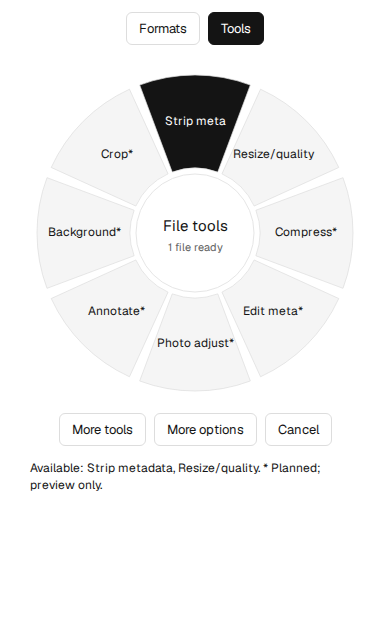
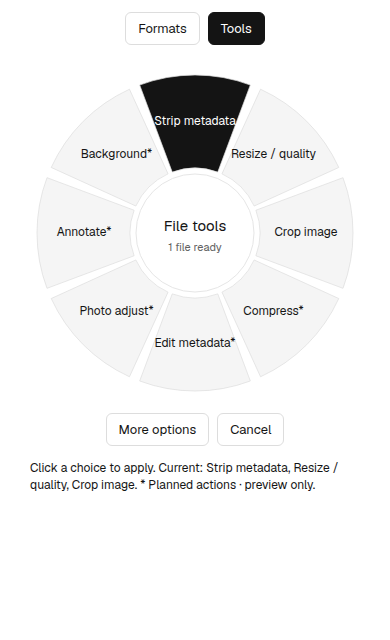
feat: add image crop tool

diff --git a/src/renderer/index.html b/src/renderer/index.html
@@ -26,7 +26,7 @@
     <section class="support" aria-labelledby="support-heading"><h2 id="support-heading">Supported conversions</h2><p>Working routes across all ten categories. Some exports preserve text content rather than layout; each file’s conversion details explain what will change.</p><dl><div><dt>Images</dt><dd>JPG, PNG, WebP, TIFF, AVIF, BMP, SVG and HEIC input · PDF export</dd></div><div><dt>Video</dt><dd>MP4, MOV, MKV, WebM, AVI, WMV, GIF · MP3 extraction</dd></div><div><dt>Audio</dt><dd>MP3, M4A, WAV, FLAC, OGG, Opus, AIFF, WMA</dd></div><div><dt>PDF</dt><dd>Text, Markdown, DOCX, EPUB · Page images · Image-based PPTX</dd></div><div><dt>Documents</dt><dd>DOCX, RTF, Markdown, TXT, HTML · PDF, page images and EPUB</dd></div><div><dt>Slides</dt><dd>PPT/PPTX to PDF and page images with the Office engine</dd></div><div><dt>Spreadsheets</dt><dd>XLSX, ODS, CSV, TSV · XLS input with the Office engine</dd></div><div><dt>EPUB</dt><dd>Reading-order text to TXT, Markdown, HTML, DOCX, PDF</dd></div><div><dt>Subtitles</dt><dd>SRT, VTT · TXT export</dd></div><div><dt>Archives</dt><dd>ZIP, TAR, TAR.GZ, GZIP and RAR input · ZIP, TAR, TAR.GZ output</dd></div></dl><p>Office rendering requires the local Office engine. HEIC export, Pages, RTFD, text clippings, OCR, and advanced editing remain in development.</p></section>
     <footer><span>Peeler · Open source · MIT source</span><span>In-window conversion · Engine licenses included</span></footer>
   </main>
-  <dialog id="format-dialog" aria-labelledby="format-heading"><form method="dialog"><div class="dialog-heading"><h2 id="format-heading">Output format</h2><button aria-label="Close format menu" formnovalidate>Close</button></div><p id="format-file"></p><p id="format-note" class="format-note"></p><fieldset id="image-options" hidden><legend>Image options</legend><div class="image-fields"><label>Max width (px)<input id="image-width" type="number" min="1" max="16384" step="1" placeholder="Original"></label><label>Max height (px)<input id="image-height" type="number" min="1" max="16384" step="1" placeholder="Original"></label><label>Lossy quality<input id="image-quality" type="number" min="1" max="100" step="1" value="85"></label><label>JPG/BMP background<input id="image-background" type="color" value="#ffffff"></label></div><p>Keep proportions and never enlarge. Quality applies to JPG, WebP and AVIF.</p></fieldset><div id="format-wheel" class="format-wheel"></div><p class="muted">Choose a format. Escape closes this menu.</p></form></dialog>
+  <dialog id="format-dialog" aria-labelledby="format-heading"><form method="dialog"><div class="dialog-heading"><h2 id="format-heading">Output format</h2><button aria-label="Close format menu" formnovalidate>Close</button></div><p id="format-file"></p><p id="format-note" class="format-note"></p><fieldset id="image-options" hidden><legend>Image options</legend><div class="image-fields"><label>Max width (px)<input id="image-width" type="number" min="1" max="16384" step="1" placeholder="Original"></label><label>Max height (px)<input id="image-height" type="number" min="1" max="16384" step="1" placeholder="Original"></label><label>Lossy quality<input id="image-quality" type="number" min="1" max="100" step="1" value="85"></label><label>JPG/BMP background<input id="image-background" type="color" value="#ffffff"></label></div><p>Keep proportions and never enlarge. Quality applies to JPG, WebP and AVIF.</p></fieldset><fieldset id="crop-options" hidden disabled><legend>Crop bounds</legend><div class="image-fields"><label>Left (px)<input id="crop-left" type="number" min="0" max="16383" step="1" required></label><label>Top (px)<input id="crop-top" type="number" min="0" max="16383" step="1" required></label><label>Width (px)<input id="crop-width" type="number" min="1" max="16384" step="1" required></label><label>Height (px)<input id="crop-height" type="number" min="1" max="16384" step="1" required></label></div><p>Coordinates use the image after orientation correction. The crop must fit within the image.</p></fieldset><div id="format-wheel" class="format-wheel"></div><p class="muted">Choose a format or tool. Escape closes this menu.</p></form></dialog>
   <script src="renderer.js"></script>
 </body>
 </html>

diff --git a/src/renderer/renderer.js b/src/renderer/renderer.js
@@ -17,7 +17,7 @@ function render() {
     const row = document.createElement('div'); row.className = 'file-row';
     const identity = document.createElement('div'); identity.className = 'file-name'; identity.textContent = file.name; identity.title = file.name;
     const meta = document.createElement('span'); meta.className = 'file-meta'; meta.textContent = `${file.category} · ${bytes(file.bytes)}`; identity.append(meta);
-    const format = document.createElement('button'); format.className = 'file-format'; format.textContent = file.operation === 'strip-metadata' ? 'Clean metadata' : file.operation === 'extract-archive' ? 'Extract archive' : file.operation === 'mute-video' ? 'Mute video' : file.operation === 'normalize-audio' ? 'Normalize volume' : file.target ? `→ ${formatLabel(file, file.target)}` : 'Unavailable'; format.setAttribute('aria-label', `Output format for ${file.name}`); format.disabled = busy || !!file.output || (!file.targets.length && !file.tools.length);
+    const format = document.createElement('button'); format.className = 'file-format'; format.textContent = file.operation === 'strip-metadata' ? 'Clean metadata' : file.operation === 'extract-archive' ? 'Extract archive' : file.operation === 'mute-video' ? 'Mute video' : file.operation === 'normalize-audio' ? 'Normalize volume' : file.operation === 'crop-image' ? 'Crop image' : file.target ? `→ ${formatLabel(file, file.target)}` : 'Unavailable'; format.setAttribute('aria-label', `Output format for ${file.name}`); format.disabled = busy || !!file.output || (!file.targets.length && !file.tools.length);
     format.onclick = () => openFormats(file); format.onkeydown = event => { if (event.key === 'Shift') { event.preventDefault(); openFormats(file); } };
     const state = document.createElement('div'); state.className = `file-state${file.error ? ' error' : ''}`;
     if (file.output) { const reveal = document.createElement('button'); reveal.textContent = 'Show file'; reveal.onclick = () => bridge.reveal(file.output).catch(error => message(error.message)); state.append(reveal); }
@@ -42,6 +42,7 @@ function openFormats(file) {
   $('#format-file').textContent = file.name;
   $('#format-note').textContent = file.note || '';
   $('#image-options').hidden = file.category !== 'Images'; $('#image-options').disabled = file.category !== 'Images';
+  $('#crop-options').hidden = true; $('#crop-options').disabled = true;
   $('#image-width').value = file.imageOptions?.width || ''; $('#image-height').value = file.imageOptions?.height || '';
   $('#image-quality').value = file.imageOptions?.quality || 85; $('#image-background').value = file.imageOptions?.background || '#ffffff';
   $('#format-wheel').replaceChildren();
@@ -80,6 +81,21 @@ function openFormats(file) {
   if (file.tools.includes('normalize-audio')) {
     const button = document.createElement('button'); button.type = 'button'; button.textContent = 'Normalize volume';
     button.onclick = () => { active.operation = 'normalize-audio'; active.target = file.name.split('.').pop().toLowerCase(); $('#format-dialog').close(); render(); };
+    $('#format-wheel').append(button);
+  }
+  if (file.tools.includes('crop-image')) {
+    const button = document.createElement('button'); button.type = 'button'; button.textContent = 'Crop image';
+    button.onclick = () => {
+      $('#image-options').hidden = true; $('#crop-options').hidden = false; $('#crop-options').disabled = false; $('#format-wheel').replaceChildren();
+      const apply = document.createElement('button'); apply.type = 'button'; apply.textContent = 'Save cropped copy';
+      apply.onclick = () => {
+        if (!$('#format-dialog form').reportValidity()) return;
+        active.operation = 'crop-image'; active.target = file.name.split('.').pop().toLowerCase();
+        active.imageOptions = { crop: { left: Number($('#crop-left').value), top: Number($('#crop-top').value), width: Number($('#crop-width').value), height: Number($('#crop-height').value) } };
+        $('#format-dialog').close(); render();
+      };
+      $('#format-wheel').append(apply);
+    };
     $('#format-wheel').append(button);
   }
   $('#format-dialog').showModal();

diff --git a/docs/TOOL_PARITY_PLAN.md b/docs/TOOL_PARITY_PLAN.md
@@ -40,9 +40,9 @@ Peeler has no file-actions wheel or assigned key for one. Tangerine's Mac demo u
 
 **Tangerine tools for a selection:** Compress; Edit Metadata; Crop; Create PDF; Make a Collage. The site describes PDF creation as one page per selected image, and collage layouts as grid/row/column/featured with ordering and spacing controls. Actions vary by source type and selection size.
 
-**Peeler now:** The Formats wheel converts supported image inputs. The Tools wheel exposes metadata removal and image options. Proportional resize, lossy quality, and JPG/BMP background settings are available during conversion or for a same-format edited copy. Metadata removal re-encodes supported images.
+**Peeler now:** The Formats wheel converts supported image inputs. The Tools wheel exposes metadata removal, image options, and coordinate-based Crop for supported raster inputs. Crop uses left/top/width/height pixel bounds after orientation correction and saves a same-format copy; it does not yet provide a live drag preview or aspect presets. Proportional resize, lossy quality, and JPG/BMP background settings are available during conversion or for a same-format edited copy. Metadata removal re-encodes supported images.
 
-**Peeler planned:** Target-size/percentage compression; general metadata inspection/editing; photo/color/exposure editing; annotations; background composition; crop UI; permanent redaction; multi-image PDF creation; collage. Existing resize/quality controls do not provide exact-size compression. Add these as distinct Tools wheel actions: **Compress**, **Edit Metadata**, **Photo Adjust**, **Annotate**, **Background**, **Crop**, **Redact**, **Create PDF**, and **Collage**. Retain the existing **Remove Metadata** and **Resize / Quality** actions.
+**Peeler planned:** Target-size/percentage compression; general metadata inspection/editing; photo/color/exposure editing; annotations; background composition; crop UI; permanent redaction; multi-image PDF creation; collage. Existing resize/quality controls do not provide exact-size compression. Add these as distinct Tools wheel actions: **Compress**, **Edit Metadata**, **Photo Adjust**, **Annotate**, **Background**, **Redact**, **Create PDF**, and **Collage**. Upgrade the current coordinate entry into a visual crop editor with preview, presets, and exact-size constraints. Retain the existing **Remove Metadata** and **Resize / Quality** actions.
 
 ### Video
 
@@ -152,7 +152,7 @@ Windows/Linux parity requires platform equivalents rather than macOS service nam
 
 1. **Windows interaction proof:** run Explorer file and folder drags through modifier-down, wheel-open, modifier-up, staged drop, selection, cancellation, multi-select, high DPI, multi-monitor, and ordinary Ctrl-drag copy/move. Fix the OS-level workflow before broad feature work.
 2. **Linux X11 interaction proof:** validate the same flows in GNOME Files and Dolphin, and ensure startup/status/fallback behavior. Keep Wayland explicitly picker-based until a supported native mechanism is implemented.
-3. **Image vertical slice:** crop plus metadata display/removal and a crop UI with preview and safe export; then add target-size compression, adjustments, annotations, backgrounds, redaction, PDF creation, and collage.
+3. **Image vertical slice:** metadata display/removal and a visual crop UI with preview, presets, and safe export; then add target-size compression, adjustments, annotations, backgrounds, redaction, PDF creation, and collage. Coordinate-based cropping is implemented.
 4. **PDF slice:** metadata, compression, split/merge, page organization, then OCR, redaction, and table extraction with independently checked results.
 5. **Audio then video slices:** implement actions from the observed lists in small complete groups, sharing tested FFmpeg transforms where sensible; add preview, cancellation, audio/video sync and preservation checks before redaction.
 6. **Archive tools:** add a destination picker and deeper cancellation coverage for the implemented extraction action. Keep additional archive utilities as separate Peeler roadmap items.

diff --git a/docs/CURRENT_SUPPORT.md b/docs/CURRENT_SUPPORT.md
@@ -4,7 +4,7 @@ This is the implemented scope, distinct from the reference website's 275-path re
 
 | Category | Inputs | Available outputs | Current fidelity |
 | --- | --- | --- | --- |
-| Images | JPG/JPEG, PNG, WebP, TIFF/TIF, AVIF, SVG, BMP, HEIC | PNG, JPG, WebP, AVIF, TIFF, BMP, PDF | One raster frame/page; metadata removed; default quality 85; optional size/quality and JPG/BMP background controls. HEIC: first decoded 8-bit image, no HDR/depth/sequence preservation |
+| Images | JPG/JPEG, PNG, WebP, TIFF/TIF, AVIF, SVG, BMP, HEIC | PNG, JPG, WebP, AVIF, TIFF, BMP, PDF | One raster frame/page; metadata removed; default quality 85; optional size/quality and JPG/BMP background controls; Tools wheel includes coordinate-based Crop. HEIC: first decoded 8-bit image, no HDR/depth/sequence preservation |
 | Video | MP4, MOV, MKV, WebM, AVI, WMV, GIF | MP4, MOV, MKV, WebM, AVI, WMV; GIF and MP3 from video containers | Re-encodes first video/audio streams; MP3 requires an audio track; GIF input cannot produce audio. Tools wheel includes **Mute video** for non-GIF files; it stream-copies the first video stream to a separate copy with audio removed. |
 | Audio | MP3, M4A, WAV, FLAC, OGG, Opus, AIFF, WMA | Other formats in the same list | Actual FFmpeg encoding; codec defaults explicit in media adapter. Tools wheel includes **Normalize volume**, using local FFmpeg loudness normalization and saving a separate copy. |
 | PDF | PDF | TXT, MD, DOCX, EPUB, PNG, JPG, PPTX | Text exports lose layout and require selectable text; PNG/JPG export every page at 300 DPI into a ZIP; PPTX contains rendered page images |
@@ -35,7 +35,7 @@ The background drag wheel is implemented with an initial Windows/X11 hook adapte
 
 ### Editing-tool coverage
 
-Peeler currently exposes image resize/quality/background options and metadata removal, video mute, audio volume normalization, and archive extraction. The other observed Tangerine video/audio/PDF/image tools are not yet implemented. Tangerine's category showcase presents format conversions for Documents, Slides, Spreadsheets, EPUB, and Subtitles without a separate tools wheel for those categories. Peeler's conversion routes and tool/action gaps are mapped separately in the [category parity plan](TOOL_PARITY_PLAN.md).
+Peeler currently exposes image resize/quality/background options, metadata removal, and coordinate-based crop; video mute; audio volume normalization; and archive extraction. The other observed Tangerine video/audio/PDF/image tools are not yet implemented. Tangerine's category showcase presents format conversions for Documents, Slides, Spreadsheets, EPUB, and Subtitles without a separate tools wheel for those categories. Peeler's conversion routes and tool/action gaps are mapped separately in the [category parity plan](TOOL_PARITY_PLAN.md).
 
 ## Input bounds
 

diff --git a/README.md b/README.md
@@ -45,7 +45,7 @@ Peeler runs in the tray or menu bar. Results are saved beside the originals or i
 | --- | --- |
 | File types | Images, video, audio, PDF, documents, slides, spreadsheets, EPUB, subtitles, and archives |
 | Conversions | 258 checks pass in the current Windows audit; 235 of 275 planned routes are verified |
-| File tools | Implemented tools are currently image-only: remove metadata and configure resize, quality, and background options. The other nine categories have conversion choices but no dedicated file tools yet. |
+| File tools | Current: image metadata removal, resize/quality, and coordinate crop; video mute; audio normalization; archive extraction. Most Tangerine tools remain unimplemented, and Peeler still has no file-actions wheel. |
 | Workflow | Background tray host, radial conversion menu, batch jobs, cancellation, progress where available, and per-file errors |
 | Privacy | Local processing; no uploads, accounts, telemetry, or conversion allowance |
 
@@ -72,13 +72,13 @@ Start dragging a file, tap the listed key, and drop it onto the wheel to stage t
 
 ![Peeler Images format wheel](docs/assets/peeler/categories/images-formats.png)
 
-![Peeler Images tools wheel: current and planned actions](docs/assets/peeler/categories/images-tools.png) ![Peeler Images tools wheel, more planned actions](docs/assets/peeler/categories/images-tools-2.png)
+![Peeler Images tools wheel: current crop, resize, metadata actions, and planned actions](docs/assets/peeler/categories/images-tools.png) ![Peeler Images tools wheel, more planned actions](docs/assets/peeler/categories/images-tools-2.png)
 
 **Tangerine actions:** Shift converts raster images to JPG, PNG, WebP, HEIC, TIFF, AVIF, BMP, or PDF (choices depend on the input). Command, for one image: Compress, Metadata, Edit Photo, Annotate, Add Background, Crop, Redact. For a selection: Compress, Metadata, Crop, Create PDF, Make a collage.
 
 **Peeler now:** Shift converts supported image inputs to available formats/PDF. Left Alt (Windows/Linux X11) or Command (macOS) opens image options or metadata removal. Resize, quality, and JPG/BMP background settings are available in conversion or a same-format edited copy; metadata removal re-encodes supported images.
 
-**Peeler planned:** Compress, Edit Metadata, Photo Adjust, Annotate, Background, Crop, Redact, Create PDF, and Collage. [Details](docs/TOOL_PARITY_PLAN.md#images)
+**Peeler planned:** Compress, Edit Metadata, Photo Adjust, Annotate, Background, Redact, Create PDF, and Collage; add a visual crop preview and aspect presets on top of the current coordinate-based Crop tool. [Details](docs/TOOL_PARITY_PLAN.md#images)
 
 </details>
 

diff --git a/docs/PRODUCT_SPEC.md b/docs/PRODUCT_SPEC.md
@@ -46,7 +46,7 @@ The reference demo defines 26 distinct tool identifiers. Peeler should implement
 | PDF | Split; organize pages; merge |
 | Archives | Extract |
 
-The current advanced tools are image metadata removal/options, video mute, and archive extraction. Image metadata removal re-encodes the image; it is not lossless tag surgery. Future redaction must remove underlying content, including PDF text and image data, rather than merely adding a visual layer. OCR and face detection must run locally and remain optional.
+The current advanced tools are image metadata removal/options and coordinate-based crop, video mute, audio volume normalization, and archive extraction. Crop currently asks for pixel bounds; a visual preview and aspect presets remain planned. Image metadata removal re-encodes the image; it is not lossless tag surgery. Future redaction must remove underlying content, including PDF text and image data, rather than merely adding a visual layer. OCR and face detection must run locally and remain optional.
 
 Detailed editor requirements from the tools catalog: frame stepping and typed timecodes for video trims; first-clip canvas selection for joins; custom or evenly spaced split points; pitch preservation for speed changes; loudness range and peak controls for normalization; independent left/right gain and channel preview; silence trimming limited to recording boundaries; time-scoped video redaction; original-versus-bleep audio preview; and selectable page order before PDF merge. Image editors include correction controls, freehand/shape annotations, composited backgrounds, exact crop dimensions, and configurable collage layouts. These remain future acceptance cases, not controls in the starter.
 
